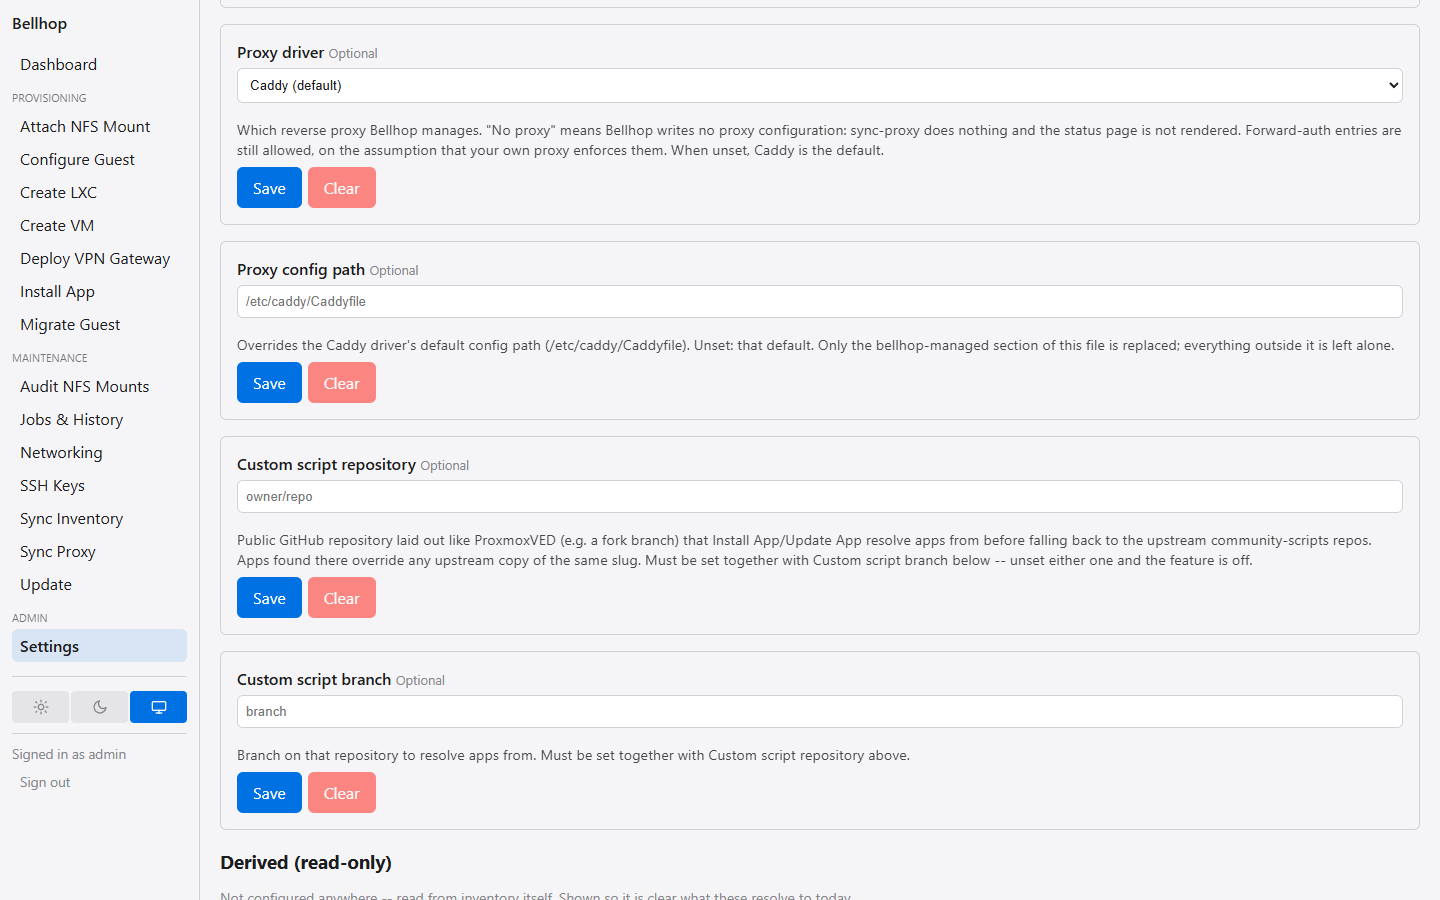
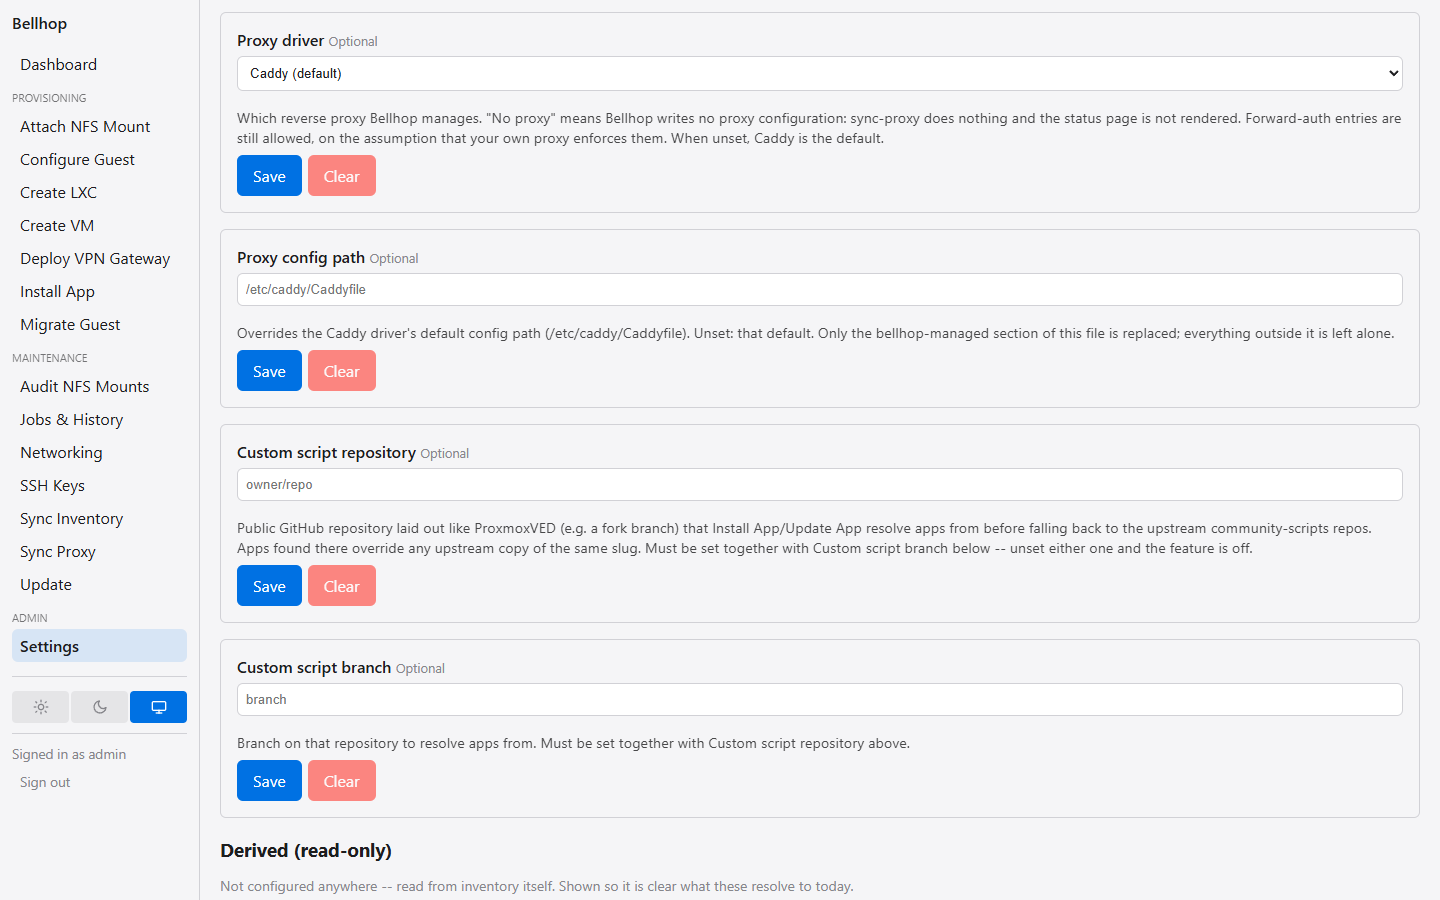
Tighten screenshot crops and phone size (#45, US1)
Claude-Session: https://claude.ai/code/session_01B4st1jNszQVe28BDeVWveJ

Changed region(s): [[0.1562, 0.0, 0.9688, 0.4667], [0.1562, 0.4978, 0.9688, 1.0]]

diff --git a/scripts/screenshots.ts b/scripts/screenshots.ts
@@ -74,6 +74,16 @@ export const SCREENSHOTS: ScreenshotDefinition[] = [
     viewport: 'desktop',
     theme: 'dark',
     ready: 'pre.job-log:has-text("install-app completed successfully.")',
+    prepare: async (page) => {
+      // The Job page scrolls its log to the end once it loads; make sure the
+      // page itself starts at the top, so the job title and status badge
+      // are in view above the log.
+      await page.locator('pre.job-log:has-text("install-app completed successfully.")').waitFor({ timeout: 15_000 });
+      await page.evaluate(() => {
+        window.scrollTo(0, 0);
+        document.querySelector('main')?.scrollTo(0, 0);
+      });
+    },
   },
   {
     file: 'update-page.png',
@@ -96,11 +106,13 @@ export const SCREENSHOTS: ScreenshotDefinition[] = [
     theme: 'light',
     ready: 'role=tab[name="Access"][selected=true]',
     prepare: async (page) => {
-      // The demo runs without Authentik, so /api/auth-groups reports
-      // `configured: false` and the auth group dropdown shows a "not
-      // configured" warning -- out of place in docs about a feature that
-      // needs Authentik. Answer it the way a configured deployment whose
-      // ladder groups all exist would.
+      // The demo itself has no Authentik (UnconfiguredAuthentikClient), so
+      // /api/auth-groups reports `configured: false` and the auth group
+      // dropdown shows a "not configured" warning -- out of place in docs
+      // about a feature that needs Authentik. This route answers it the way
+      // a configured deployment whose ladder groups all exist would; it is
+      // registered on this screenshot's own page only, so no other
+      // screenshot and nothing on the demo server is affected.
       await page.route('**/api/auth-groups', async (route) => {
         const response = await route.fetch();
         const body = (await response.json()) as { canLower: boolean; rungs: Array<{ name: string }> };
@@ -130,7 +142,7 @@ export const SCREENSHOTS: ScreenshotDefinition[] = [
       await driver.evaluate((el) => {
         const field = el.closest<HTMLElement>('.settings-field');
         if (!field) return;
-        field.style.scrollMarginTop = '24px';
+        field.style.scrollMarginTop = '12px';
         field.scrollIntoView({ block: 'start' });
       });
     },

diff --git a/scripts/capture-screenshots.ts b/scripts/capture-screenshots.ts
@@ -14,7 +14,7 @@ const IMAGES_DIR = path.join(REPO_ROOT, 'docs', 'images');
 
 const VIEWPORTS: Record<ScreenshotDefinition['viewport'], Pick<BrowserContextOptions, 'viewport' | 'deviceScaleFactor' | 'isMobile' | 'hasTouch'>> = {
   desktop: { viewport: { width: 1440, height: 900 }, deviceScaleFactor: 1 },
-  phone: { viewport: { width: 390, height: 844 }, deviceScaleFactor: 2, isMobile: true, hasTouch: true },
+  phone: { viewport: { width: 390, height: 844 }, deviceScaleFactor: 1, isMobile: true, hasTouch: true },
 };
 
 // Tried in order: installed Chrome, installed Edge, then Playwright's own

diff --git a/specs/014-web-ui-screenshots/tasks.md b/specs/014-web-ui-screenshots/tasks.md
@@ -57,13 +57,13 @@ Paths are relative to the repository root (the worktree).
 **Independent test**: open README.md and the three docs pages rendered; every image loads, sits next to its text, has descriptive alt text, and shows example values only.
 
 - [x] T013 [P] [US1] Create `scripts/screenshots.ts` exporting `SCREENSHOTS` — the seven definitions from contracts/screenshot-set.md (`file`, `path`, `viewport: 'desktop' | 'phone'`, `theme`, `ready` selector, optional `prepare(page)`, optional `target` selector). Key selectors on visible text or accessible names. The OIDC guest's Advanced modal is opened from the Dashboard and switched to its Access tab; the catalog shot types a short prefix into the App field so the suggestion list opens; `job-log.png` opens `/jobs/<id of the seeded install-app job>` (look the id up from `/api/jobs` at capture time, not hardcoded).
-- [x] T014 [US1] Create `scripts/capture-screenshots.ts`: check `web-client/dist/index.html` exists; launch the browser (`chrome`, then `msedge`, then bundled Chromium); `startDemoServer({ port: 0 })`; for each definition, a new context with `locale: 'en-US'`, `timezoneId: 'UTC'`, `reducedMotion: 'reduce'`, the definition's `colorScheme`, and viewport (desktop 1440×900 at scale 1, phone 390×844 at scale 2); navigate, run `prepare`, wait for `ready` (15 s), screenshot the viewport or `target` into a temp file then move it to `docs/images/<file>`; print `  wrote docs/images/<file>`; always close the browser and the demo in `finally` (contracts/commands.md)
+- [x] T014 [US1] Create `scripts/capture-screenshots.ts`: check `web-client/dist/index.html` exists; launch the browser (`chrome`, then `msedge`, then bundled Chromium); `startDemoServer({ port: 0 })`; for each definition, a new context with `locale: 'en-US'`, `timezoneId: 'UTC'`, `reducedMotion: 'reduce'`, the definition's `colorScheme`, and viewport (desktop 1440×900 at scale 1, phone 390×844 at scale 1); navigate, run `prepare`, wait for `ready` (15 s), screenshot the viewport or `target` into a temp file then move it to `docs/images/<file>`; print `  wrote docs/images/<file>`; always close the browser and the demo in `finally` (contracts/commands.md)
 - [x] T015 [US1] Run `npm run web:build` then `npm run docs:screenshots`; iterate on selectors/preparation in `scripts/screenshots.ts` until all seven images are written and each shows the intended screen with representative content; open every PNG and confirm by eye that no non-example value appears; confirm `docs/images/` totals ≤ 3 MB (SC-005), reducing viewport or using the element capture where an image is oversized
 - [x] T016 [P] [US1] Add `dashboard.png` to `README.md` between the introduction paragraphs and `## Prerequisites`, with descriptive alt text; confirm README stays ≤ 200 lines (FR-014)
 - [x] T017 [P] [US1] Add `install-app-catalog.png`, `job-log.png`, `update-page.png`, and `dashboard-phone.png` to `docs/web-ui.md`, each next to the paragraph describing that screen (add one short sentence introducing the phone card layout where the phone shot goes), each with descriptive alt text (FR-015, FR-016)
 - [x] T018 [P] [US1] Add `guest-access-oidc.png` to the `## OIDC mode` section of `docs/authentik.md` next to the text about per-guest settings, with alt text (FR-015)
 - [x] T019 [P] [US1] Add `settings-proxy-driver.png` to `docs/reverse-proxy/README.md` where choosing a driver is described, with alt text (FR-015)
-- [x] T020 [US1] Run `npm test` (the docs link test checks every image link) and view the four pages rendered at desktop and phone width
+- [ ] T020 [US1] Run `npm test` (the docs link test checks every image link) and view the four pages rendered at desktop and phone width
 
 **Checkpoint**: MVP — the docs show the web UI.
 

diff --git a/docs/web-ui.md b/docs/web-ui.md
@@ -27,7 +27,7 @@ On a phone-width screen (640px or narrower) the sidebar folds into a menu
 button and every table becomes a stack of cards, one per row, each value
 labelled with its column name:
 
-![The Bellhop Dashboard on a phone: a menu button and page title at the top, then each host shown as a card listing its name, MID scheme and SSH target](images/dashboard-phone.png)
+![The Bellhop Dashboard on a phone: a menu button and page title at the top, two host cards listing name, MID scheme and SSH target, then the guest filter and the first guest card with its type, IP address, subdomain and power buttons](images/dashboard-phone.png)
 
 Provisioning actions (create-lxc/create-vm/install-app/deploy-vpn-gateway/
 delete-guest/migrate-guest/attach-nfs-mount/migrate-nfs-mount) and

diff --git a/specs/014-web-ui-screenshots/research.md b/specs/014-web-ui-screenshots/research.md
@@ -121,7 +121,7 @@ listing what it tried and the install command.
 Capture settings, fixed for every run: `locale: 'en-US'`, `timezoneId: 'UTC'`,
 `reducedMotion: 'reduce'`, `colorScheme: 'light'` (or `'dark'` for the dark shot, which the
 web UI's default `system` theme follows). Desktop shots use a 1440×900 viewport at device scale
-1; the phone shot uses 390×844 at device scale 2. Each shot waits for a named selector that only
+1; the phone shot uses 390×844 at device scale 1. Each shot waits for a named selector that only
 exists once its data has loaded, with a 15-second timeout, and failure names the shot.
 
 **Rationale**: Chrome and Edge are both commonly installed (both are present on the

diff --git a/specs/014-web-ui-screenshots/contracts/screenshot-set.md b/specs/014-web-ui-screenshots/contracts/screenshot-set.md
@@ -1,7 +1,7 @@
 # Contract: the screenshot set
 
 Seven images under `docs/images/`. File names are stable (FR-013). Desktop is 1440×900 at
-device scale 1; phone is 390×844 at device scale 2.
+device scale 1; phone is 390×844 at device scale 1.
 
 | File | Screen | Viewport | Theme | Placed in |
 | --- | --- | --- | --- | --- |
